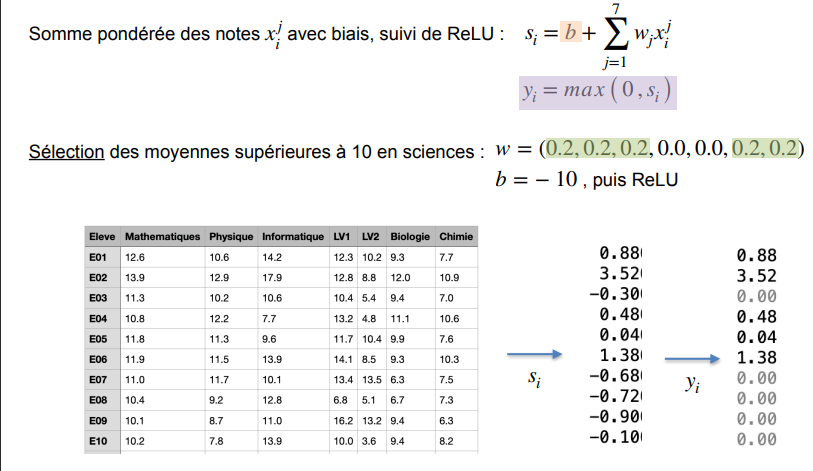
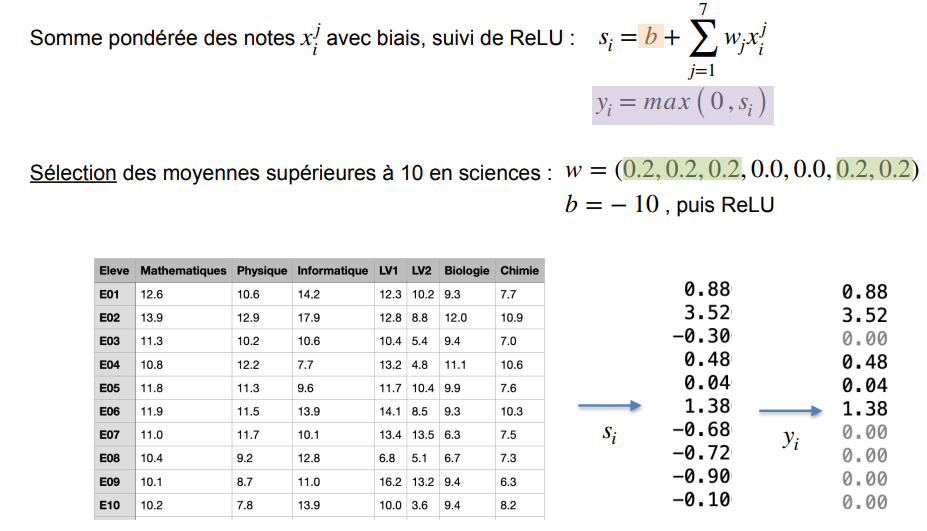
1.Mathematics & Gradients everywhere - 1rst part added(missing code snippets and need revision)

diff --git a/courses/FIDLE/1. Mathematics & Gradients everywhere.md b/courses/FIDLE/1. Mathematics & Gradients everywhere.md
@@ -87,9 +87,19 @@ Let's apply same principles to Languages subjects and see which students perform
 
 ![Image 8](visuals/1.Mathematics-&-Gradients-everywhere/8.png)
 
+So to sum up, what Dense layers do is:
+
+
+
+
 Isn't it cool? Since I'm a programmer, I'll find it more cool if I can program it :)
 
 > How do we code this in a language dedicated to neural networks?
+
+### Practice with code
+
+First let's start by importing the necessary librairies. 
+Note that we're going to use PyTorch for all the Neural Networks implementations in these series.
 
 ```python
 
@@ -102,8 +112,19 @@ Isn't it cool? Since I'm a programmer, I'll find it more cool if I can program i
 
 ## 2. Convolution filters
 
+### Convolution 
 
 
+
+
+
+### Convolution and bias
+
+
+
+
+
+### Convolution and bias, followed by ReLU
 
 
 
